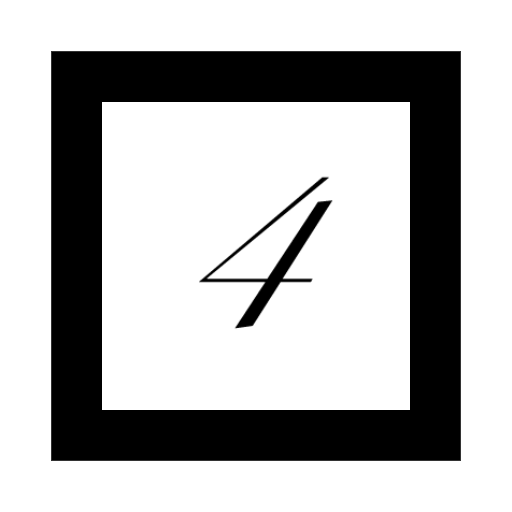
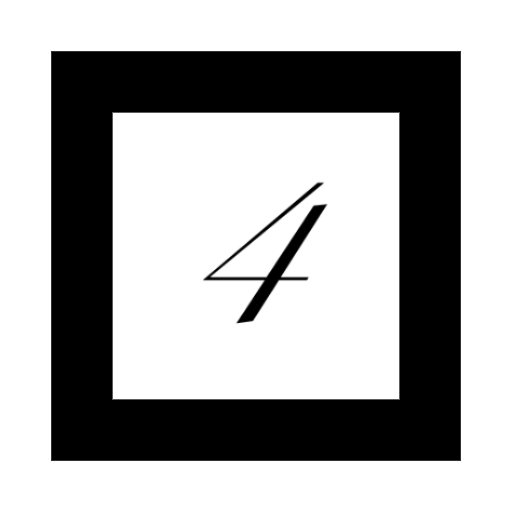
直した

Changed region(s): [[0.1875, 0.1875, 0.8125, 0.8125], [0.375, 0.3438, 0.6562, 0.6562]]

diff --git a/2019/index.html b/2019/index.html
@@ -12,7 +12,7 @@
 </style>
 
   <!-- A-Frame の VR空間に AR.js を紐づける（デバッグUIを非表示） -->
-  <a-scene embedded vr-mode-ui="enabled: false" arjs="trackingMethod:best; debugUIEnabled:false;patternRatio:0.75;">
+  <a-scene embedded vr-mode-ui="enabled: false" arjs="trackingMethod:best; debugUIEnabled:false;patternRatio:0.70;">
 
     <!-- マーカーを登録 -->
     <a-marker preset="custom" type="pattern" url="./pattern-marker_1.patt">
